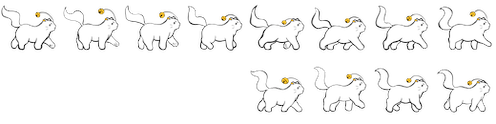
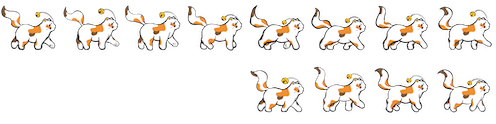
meow position

diff --git a/core/src/edu/cornell/gdiac/game/object/Cat.java b/core/src/edu/cornell/gdiac/game/object/Cat.java
@@ -49,15 +49,19 @@ public class Cat extends CapsuleObstacle {
     private Animation<TextureRegion> jump_animation;
     private Animation<TextureRegion> meow_animation;
     private Animation<TextureRegion> walk_animation;
+    private Animation<TextureRegion> idle_animation;
     private TextureRegion[][] spriteFrames;
     private TextureRegion[][] spriteFrames2;
     private TextureRegion[][] spriteFrames3;
+    private TextureRegion[][] spriteFrames4;
     private float jumpTime;
     private float meowTime;
     private float walkTime;
+    private float idleTime;
     private Texture normal_texture;
     private Texture jumping_texture;
     private Texture sit_texture;
+    private int time;
     private boolean jump_animated;
     /** The amount to slow the character down */
     private final float damping;
@@ -360,15 +364,18 @@ public class Cat extends CapsuleObstacle {
         spriteFrames = TextureRegion.split(arr[2], 65, 65);
         spriteFrames2 = TextureRegion.split(arr[3], 62, 42);
         spriteFrames3 = TextureRegion.split(arr[5], 62, 62);
+        spriteFrames4 = TextureRegion.split(arr[6],62,62);
 
         jump_animation = new Animation<>(0.025f, spriteFrames[0]);
         meow_animation = new Animation<>(0.05f, spriteFrames2[0]);
         walk_animation = new Animation<>(0.15f, spriteFrames3[0]);
+        idle_animation = new Animation<>(0.15f, spriteFrames4[0]);
 
         jumpTime = 0f;
         meowTime = 0f;
         walkTime = 0f;
-
+        idleTime = 0f;
+        time = 0;
         // Gameplay attributes
         state = State.MOVING;
         setGravityScale(2f);
@@ -666,7 +673,7 @@ public class Cat extends CapsuleObstacle {
             meow_animation.setPlayMode(Animation.PlayMode.REVERSED);
             meowTime += Gdx.graphics.getDeltaTime();
             TextureRegion currentFrame2 = meow_animation.getKeyFrame(meowTime);
-            canvas.draw(currentFrame2,Color.WHITE, origin.x, origin.y,x,y, getAngle(),effect,1.0f);
+            canvas.draw(currentFrame2,Color.WHITE, origin.x, origin.y,x-(14*effect),y, getAngle(),effect,1.0f);
             if (meowTime >= (0.05*5)){
                 meowTime = 0;
                 isMeowing = false;
@@ -674,7 +681,18 @@ public class Cat extends CapsuleObstacle {
         }
         //sit
         else if(horizontalMovement == 0 && verticalMovement == 0){
-            canvas.draw(sit_texture, Color.WHITE, origin.x, origin.y, x,y, getAngle(), effect, 1.0f);
+            if(idleTime <= 20){
+                idle_animation.setPlayMode(Animation.PlayMode.LOOP_PINGPONG);
+                idleTime += Gdx.graphics.getDeltaTime();
+                TextureRegion currentFrame2 = idle_animation.getKeyFrame(idleTime);
+                canvas.draw(currentFrame2,Color.WHITE, origin.x, origin.y,x+50*effect,y-10, getAngle(),-effect,1.0f);
+            }
+            else{
+                if(idleTime >=10){
+                    idleTime = 0;
+                }
+                canvas.draw(sit_texture, Color.WHITE, origin.x, origin.y, x,y, getAngle(), effect, 1.0f);
+            }
         }
         else{
             if ((state == State.JUMPING)) {

diff --git a/core/src/edu/cornell/gdiac/game/Level.java b/core/src/edu/cornell/gdiac/game/Level.java
@@ -479,13 +479,14 @@ public class Level {
         // Create cat
         dwidth  = tMap.get("cat").getRegionWidth()/scale.x;
         dheight = tMap.get("cat").getRegionHeight()/scale.y;
-        Texture[] arr = new Texture[6];
+        Texture[] arr = new Texture[7];
         arr[0] = tMap.get("cat").getTexture();
         arr[1] = tMap.get("jumpingCat").getTexture();
         arr[2] = tMap.get("jump_anim").getTexture();
         arr[3] = tMap.get("meow_anim").getTexture();
         arr[4] = tMap.get("sit").getTexture();
         arr[5] = tMap.get("walk").getTexture();
+        arr[6] = tMap.get("idle_anim").getTexture();
         cat = new Cat(levelJV.get("cat"), dwidth, dheight, ret, prevCat == null? null : prevCat.getPosition(),arr);
         cat.setDrawScale(scale);
 //        cat.setTexture(tMap.get("cat"));

diff --git a/core/src/edu/cornell/gdiac/game/WorldController.java b/core/src/edu/cornell/gdiac/game/WorldController.java
@@ -210,7 +210,7 @@ public class WorldController implements Screen {
 
 		String[] names = {"cat", "jumpingCat","barrier", "rope", "spikes", "button", "flame", "flamethrower", "laser", "laserBeam",
 				"deadCat", "checkpoint", "checkpointActive", "roboMob", "background", "steel", "goal","flame_anim","button_anim", "jump_anim",
-		"meow_anim","sit","walk"};
+		"meow_anim","sit","walk", "idle_anim"};
 
 		for (String n : names){
 			textureRegionAssetMap.put(n, new TextureRegion(directory.getEntry(n, Texture.class)));
